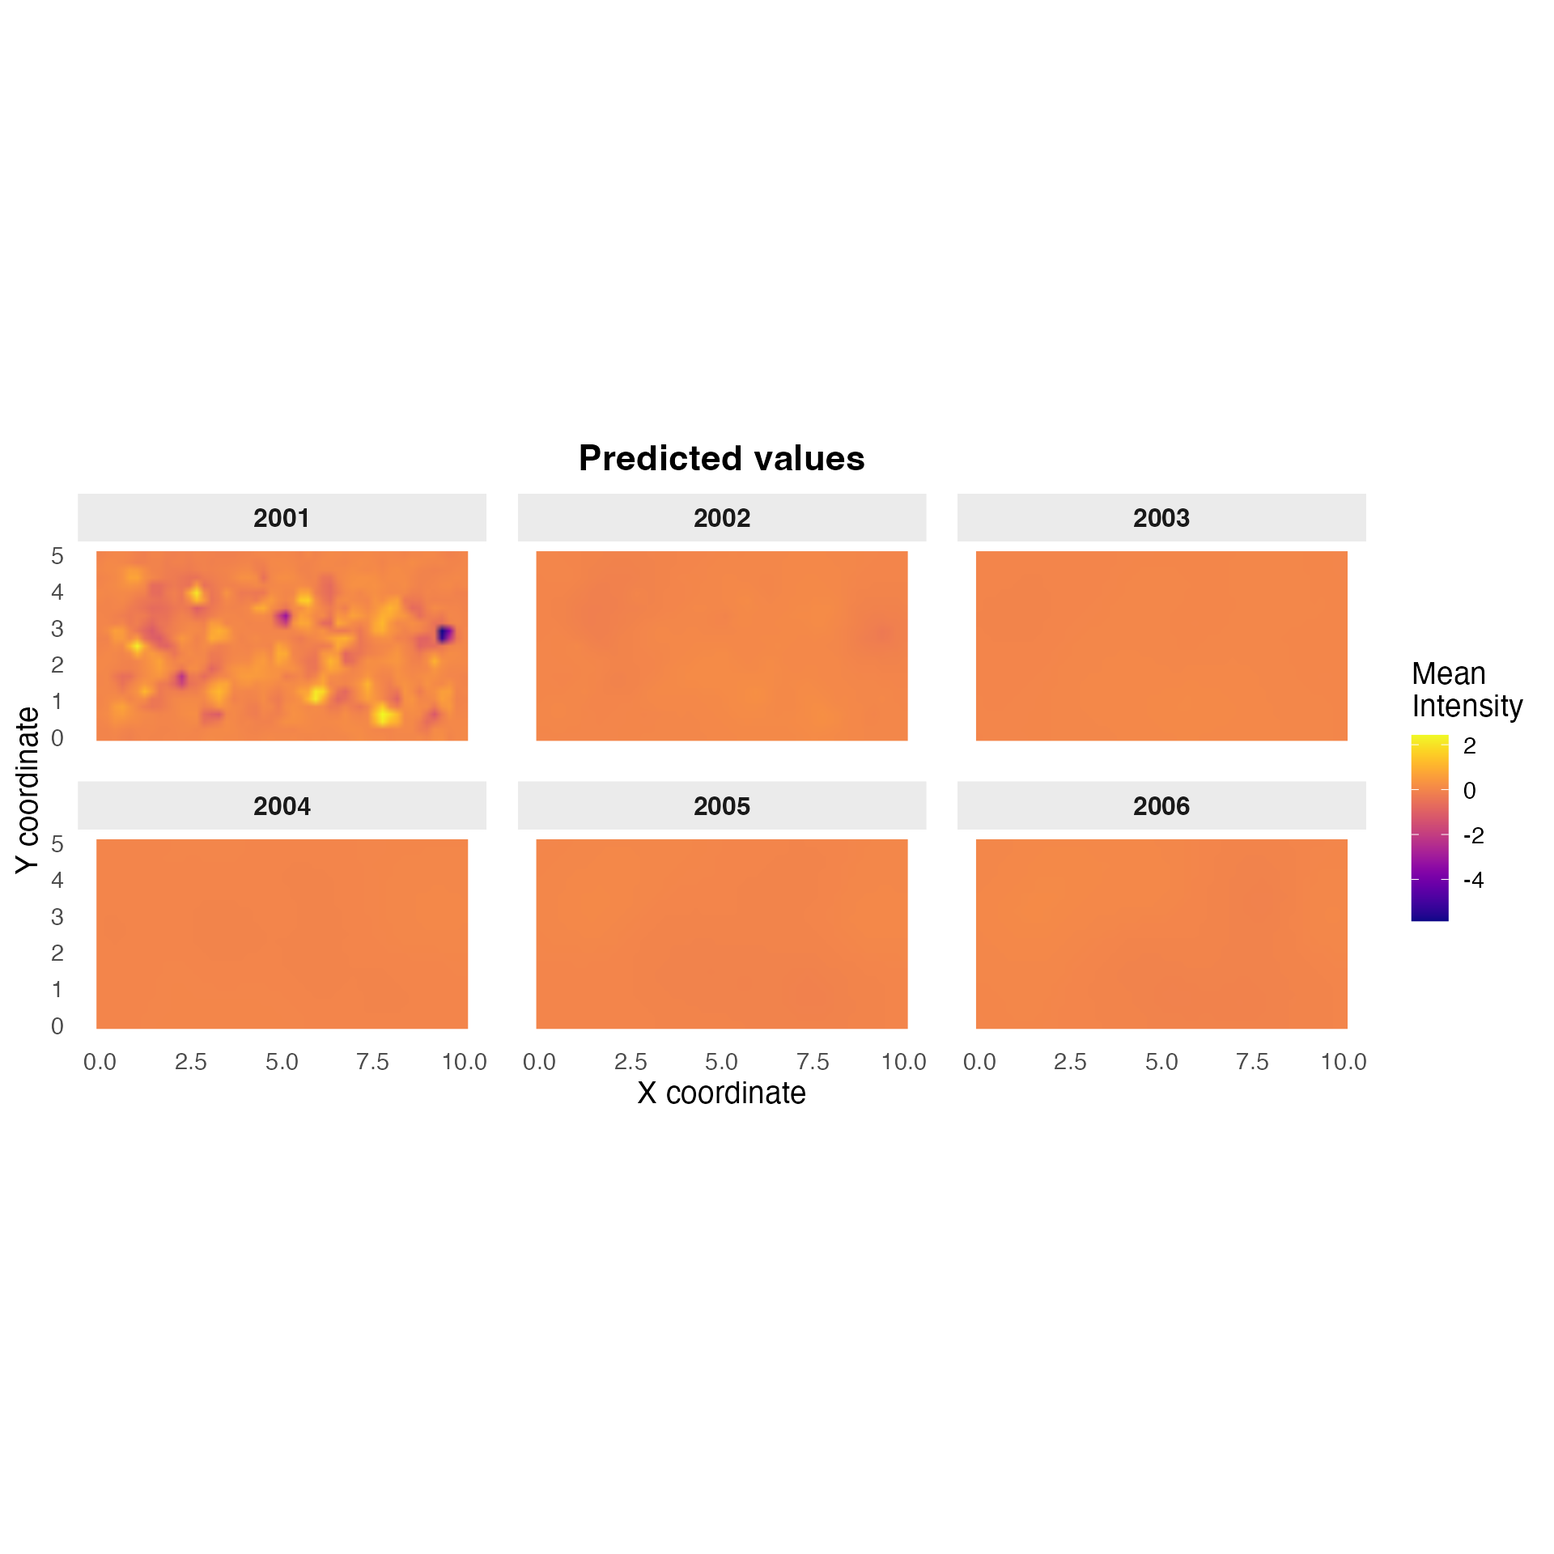
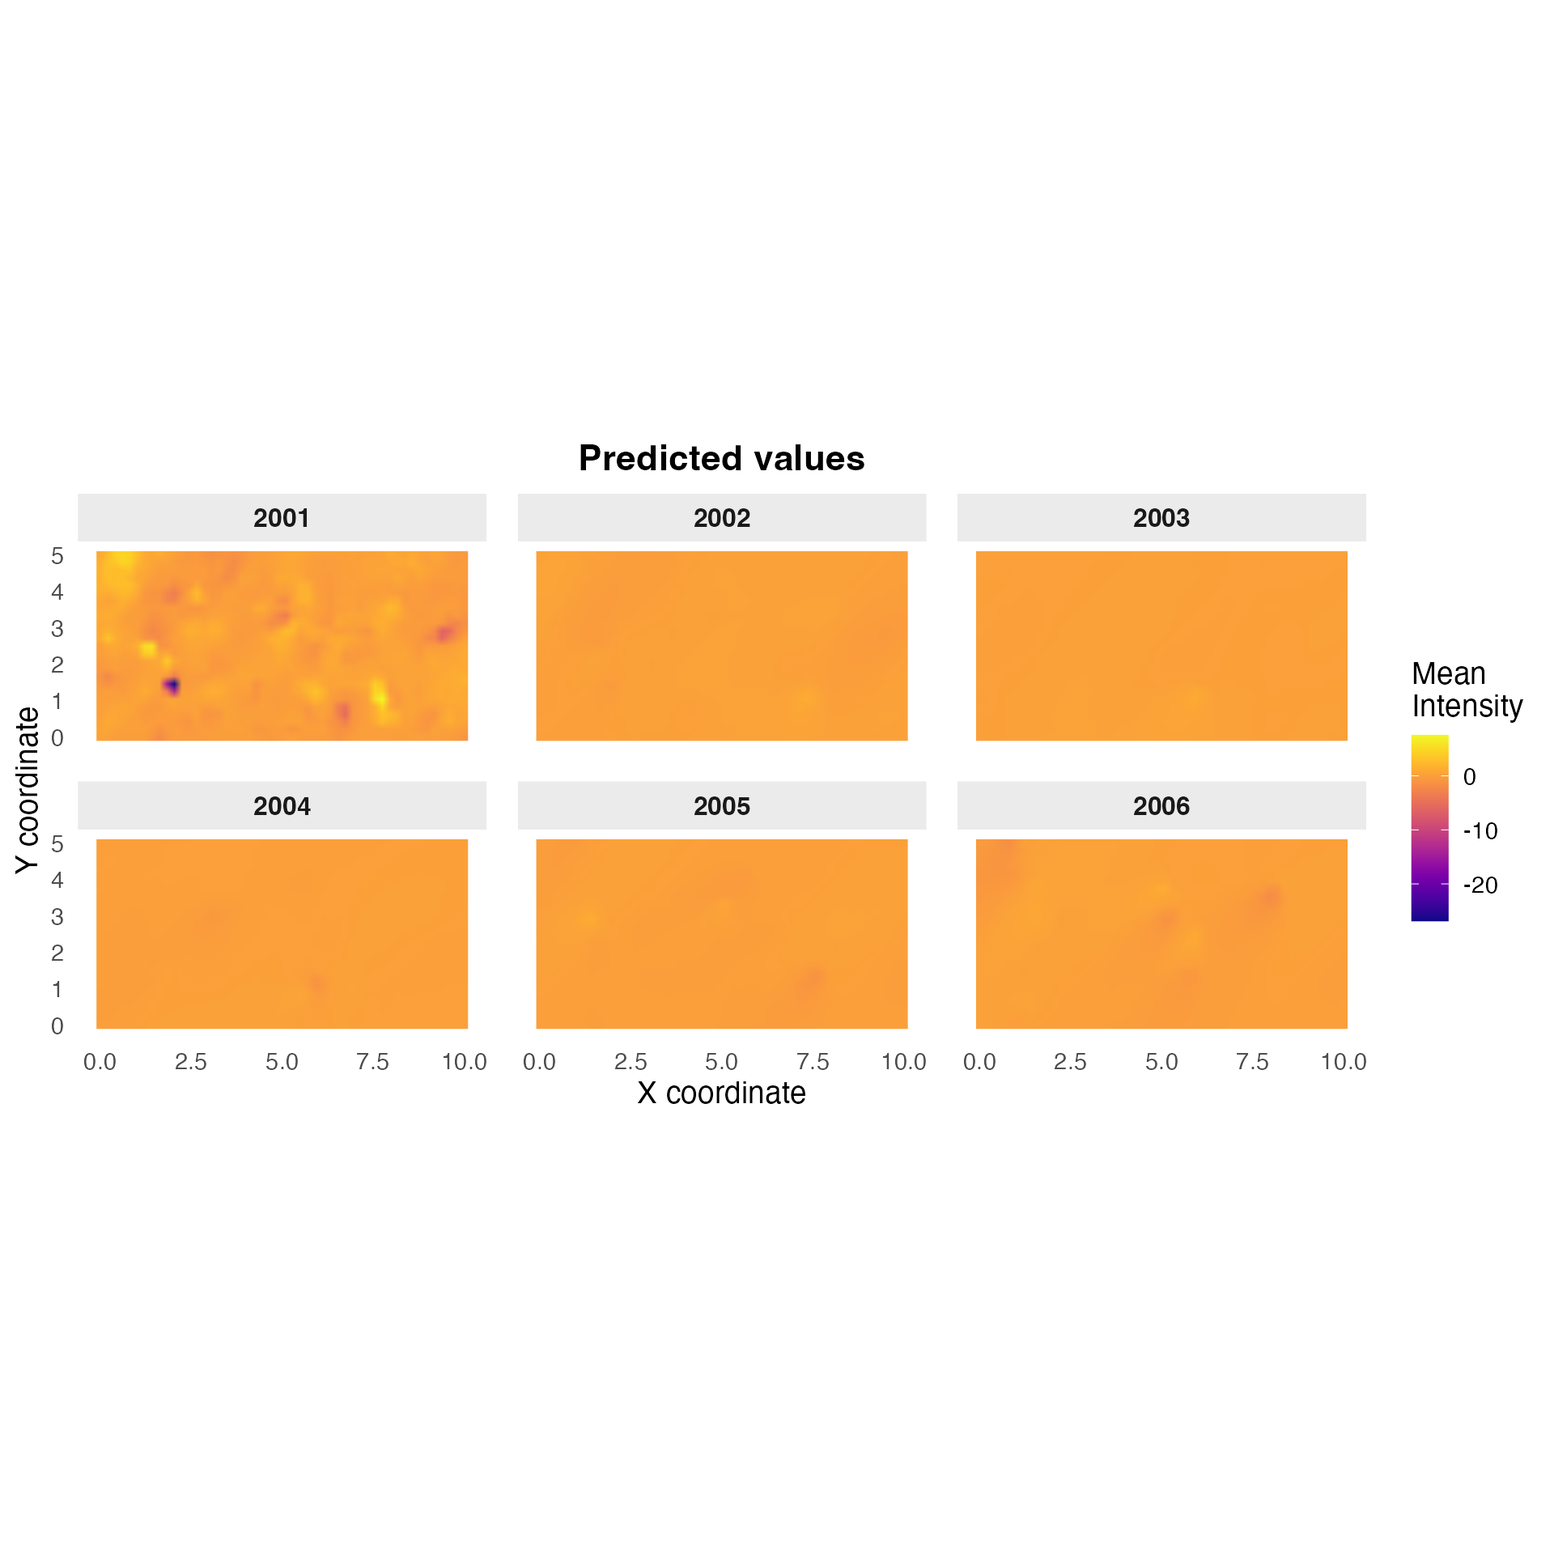
📚 Update documentation [skip ci]

diff --git a/articles/non-separable-model.html b/articles/non-separable-model.html
@@ -473,6 +473,11 @@ have correlation around 0.13 under the Matérn model with
 <p>Now we create the model object and simulate observations:</p>
 <div class="sourceCode" id="cb5"><pre class="downlit sourceCode r">
 <code class="sourceCode R"><span><span class="co"># Specify the true generative model</span></span>
+<span><span class="va">true_mu</span> <span class="op">&lt;-</span> <span class="fl">1</span></span>
+<span><span class="va">true_sigma</span> <span class="op">&lt;-</span> <span class="fl">4</span></span>
+<span><span class="va">true_nu</span> <span class="op">&lt;-</span> <span class="fl">20</span></span>
+<span><span class="va">true_noise</span> <span class="op">&lt;-</span> <span class="fu"><a href="../reference/ngme_noise.html">noise_nig</a></span><span class="op">(</span>mu <span class="op">=</span> <span class="va">true_mu</span>, sigma <span class="op">=</span> <span class="va">true_sigma</span>, nu <span class="op">=</span> <span class="va">true_nu</span><span class="op">)</span></span>
+<span></span>
 <span><span class="va">true_model</span> <span class="op">&lt;-</span> <span class="fu"><a href="../reference/f.html">f</a></span><span class="op">(</span></span>
 <span>  map <span class="op">=</span> <span class="fu"><a href="https://rdrr.io/r/base/list.html" class="external-link">list</a></span><span class="op">(</span></span>
 <span>    <span class="va">obs_data</span><span class="op">$</span><span class="va">time_index</span>,</span>
@@ -488,7 +493,7 @@ have correlation around 0.13 under the Matérn model with
 <span>    cc <span class="op">=</span> <span class="va">true_cc</span>,</span>
 <span>    lambda <span class="op">=</span> <span class="va">true_lambda</span>,</span>
 <span>  <span class="op">)</span>,</span>
-<span>  noise <span class="op">=</span> <span class="fu"><a href="../reference/ngme_noise.html">noise_nig</a></span><span class="op">(</span>mu <span class="op">=</span> <span class="fl">1</span>, sigma <span class="op">=</span> <span class="fl">4</span>, nu <span class="op">=</span> <span class="fl">20</span><span class="op">)</span> <span class="co"># Non-Gaussian innovations</span></span>
+<span>  noise <span class="op">=</span> <span class="va">true_noise</span></span>
 <span><span class="op">)</span></span>
 <span></span>
 <span><span class="co"># Generate latent field realizations</span></span>
@@ -572,18 +577,31 @@ high-dimensional parameter spaces.</p>
 <span>    model <span class="op">=</span> <span class="fu"><a href="../reference/spacetime.html">spacetime</a></span><span class="op">(</span></span>
 <span>      mesh <span class="op">=</span> <span class="fu"><a href="https://rdrr.io/r/base/list.html" class="external-link">list</a></span><span class="op">(</span><span class="va">mesh_temporal</span>, <span class="va">mesh_spatial</span><span class="op">)</span></span>
 <span>    <span class="op">)</span>,</span>
+<span>    noise <span class="op">=</span> <span class="fu"><a href="../reference/ngme_noise.html">noise_nig</a></span><span class="op">(</span><span class="op">)</span>,</span>
 <span>    name <span class="op">=</span> <span class="st">"advection_field"</span>,</span>
 <span>  <span class="op">)</span>,</span>
 <span>  data <span class="op">=</span> <span class="va">obs_data</span>,</span>
 <span>  family <span class="op">=</span> <span class="st">"normal"</span>, <span class="co"># Observation distribution</span></span>
 <span>  control_opt <span class="op">=</span> <span class="fu"><a href="../reference/control_opt.html">control_opt</a></span><span class="op">(</span></span>
-<span>    iterations <span class="op">=</span> <span class="fl">500</span>,</span>
+<span>    iterations <span class="op">=</span> <span class="fl">1000</span>,</span>
 <span>    optimizer <span class="op">=</span> <span class="fu"><a href="../reference/adamW.html">adamW</a></span><span class="op">(</span><span class="op">)</span>,</span>
-<span>    n_parallel_chain <span class="op">=</span> <span class="fl">2</span>,</span>
+<span>    n_parallel_chain <span class="op">=</span> <span class="fl">1</span>,</span>
 <span>    verbose <span class="op">=</span> <span class="cn">FALSE</span>,</span>
 <span>    seed <span class="op">=</span> <span class="fl">2024</span></span>
 <span>  <span class="op">)</span></span>
-<span><span class="op">)</span></span></code></pre></div>
+<span><span class="op">)</span></span>
+<span><span class="va">model_nonsep</span></span>
+<span><span class="fu"><a href="../reference/traceplot.html">traceplot</a></span><span class="op">(</span><span class="va">model_nonsep</span><span class="op">)</span></span></code></pre></div>
+<p><img src="non-separable-model_files/figure-html/fit-nonseparable-1.png" width="100%"></p>
+<div class="sourceCode" id="cb7"><pre class="downlit sourceCode r">
+<code class="sourceCode R"><span><span class="fu"><a href="../reference/traceplot.html">traceplot</a></span><span class="op">(</span><span class="va">model_nonsep</span>, <span class="st">"advection_field"</span>, hline <span class="op">=</span> <span class="fu"><a href="https://rdrr.io/r/base/c.html" class="external-link">c</a></span><span class="op">(</span></span>
+<span>  <span class="va">true_cc</span>,</span>
+<span>  <span class="va">true_kappa</span>,</span>
+<span>  <span class="va">true_theta_gamma_x</span>,</span>
+<span>  <span class="va">true_theta_gamma_y</span>,</span>
+<span>  <span class="va">true_mu</span>, <span class="va">true_sigma</span>, <span class="va">true_nu</span></span>
+<span><span class="op">)</span><span class="op">)</span></span></code></pre></div>
+<p><img src="non-separable-model_files/figure-html/fit-nonseparable-2.png" width="100%"></p>
 <p><strong>Model specification details:</strong></p>
 <ul>
 <li>
@@ -602,7 +620,7 @@ finite element meshes for both dimensions</li>
 <code>n_parallel_chain = 2</code>: Runs optimization from two random
 starting points to avoid local optima</li>
 </ul>
-<div class="sourceCode" id="cb7"><pre class="downlit sourceCode r">
+<div class="sourceCode" id="cb8"><pre class="downlit sourceCode r">
 <code class="sourceCode R"><span><span class="fu"><a href="https://rdrr.io/r/base/summary.html" class="external-link">summary</a></span><span class="op">(</span><span class="va">model_nonsep</span><span class="op">)</span></span>
 <span><span class="co">#&gt; *** Ngme object ***</span></span>
 <span><span class="co">#&gt; </span></span>
@@ -613,18 +631,20 @@ starting points to avoid local optima</li>
 <span><span class="co">#&gt; $advection_field</span></span>
 <span><span class="co">#&gt;   Model type: Space-time (Implicit Euler)</span></span>
 <span><span class="co">#&gt;       alpha = 2 (fixed) </span></span>
-<span><span class="co">#&gt;       theta_gamma_x = -0.43 </span></span>
-<span><span class="co">#&gt;       theta_gamma_y = -0.43 </span></span>
-<span><span class="co">#&gt;       cc = 1 </span></span>
-<span><span class="co">#&gt;       kappa = 0.15 </span></span>
-<span><span class="co">#&gt;   Noise type: NORMAL</span></span>
+<span><span class="co">#&gt;       theta_gamma_x = 2.1 </span></span>
+<span><span class="co">#&gt;       theta_gamma_y = 2.3 </span></span>
+<span><span class="co">#&gt;       cc = 0.84 </span></span>
+<span><span class="co">#&gt;       kappa = 0.26 </span></span>
+<span><span class="co">#&gt;   Noise type: NIG</span></span>
 <span><span class="co">#&gt;   Noise parameters: </span></span>
-<span><span class="co">#&gt;       sigma = 0.249</span></span>
+<span><span class="co">#&gt;       mu = -0.162</span></span>
+<span><span class="co">#&gt;       sigma = 1.47</span></span>
+<span><span class="co">#&gt;       nu = 0.0311</span></span>
 <span><span class="co">#&gt; </span></span>
 <span><span class="co">#&gt; Measurement noise: </span></span>
 <span><span class="co">#&gt;   Noise type: NORMAL</span></span>
 <span><span class="co">#&gt;   Noise parameters: </span></span>
-<span><span class="co">#&gt;       sigma = 0.498</span></span></code></pre></div>
+<span><span class="co">#&gt;       sigma = 0.404</span></span></code></pre></div>
 <p>The summary output shows the estimated parameters along with standard
 errors (if computed). Key quantities include the likelihood value,
 convergence status, and parameter estimates with uncertainty
@@ -635,7 +655,7 @@ quantification.</p>
 </h3>
 <p>Let’s extract and interpret the estimated parameters, comparing them
 to the true values used in simulation:</p>
-<div class="sourceCode" id="cb8"><pre class="downlit sourceCode r">
+<div class="sourceCode" id="cb9"><pre class="downlit sourceCode r">
 <code class="sourceCode R"><span><span class="co"># Extract estimated parameters from the latent field model</span></span>
 <span><span class="va">params</span> <span class="op">&lt;-</span> <span class="va">model_nonsep</span><span class="op">$</span><span class="va">replicates</span><span class="op">[[</span><span class="fl">1</span><span class="op">]</span><span class="op">]</span><span class="op">$</span><span class="va">models</span><span class="op">[[</span><span class="fl">1</span><span class="op">]</span><span class="op">]</span><span class="op">$</span><span class="va">theta_K</span></span>
 <span></span>
@@ -655,22 +675,22 @@ to the true values used in simulation:</p>
 <tbody>
 <tr class="odd">
 <td align="left">κ (kappa)</td>
-<td align="right">0.0233</td>
+<td align="right">-0.1772</td>
 <td align="right">1.000</td>
 </tr>
 <tr class="even">
 <td align="left">c (time scale)</td>
-<td align="right">-1.9492</td>
+<td align="right">-1.3671</td>
 <td align="right">15.0</td>
 </tr>
 <tr class="odd">
 <td align="left">γ_x (velocity x)</td>
-<td align="right">-0.4226</td>
+<td align="right">2.1725</td>
 <td align="right">2.0</td>
 </tr>
 <tr class="even">
 <td align="left">γ_y (velocity y)</td>
-<td align="right">-0.4404</td>
+<td align="right">2.2583</td>
 <td align="right">0.0</td>
 </tr>
 </tbody>
@@ -711,7 +731,7 @@ evolution of advection-diffusion processes.</p>
 </h3>
 <p>We construct a regular grid of spatial locations and select multiple
 time points for visualization:</p>
-<div class="sourceCode" id="cb9"><pre class="downlit sourceCode r">
+<div class="sourceCode" id="cb10"><pre class="downlit sourceCode r">
 <code class="sourceCode R"><span><span class="co"># Define fine spatial grid for smooth visualization</span></span>
 <span><span class="va">x_pred</span> <span class="op">&lt;-</span> <span class="fu"><a href="https://rdrr.io/r/base/seq.html" class="external-link">seq</a></span><span class="op">(</span><span class="fl">0</span>, <span class="fl">10</span>, length.out <span class="op">=</span> <span class="fl">50</span><span class="op">)</span></span>
 <span><span class="va">y_pred</span> <span class="op">&lt;-</span> <span class="fu"><a href="https://rdrr.io/r/base/seq.html" class="external-link">seq</a></span><span class="op">(</span><span class="fl">0</span>, <span class="fl">5</span>, length.out <span class="op">=</span> <span class="fl">25</span><span class="op">)</span></span>
@@ -768,7 +788,7 @@ observation locations.</p>
 points. The <code><a href="https://rdrr.io/r/stats/predict.html" class="external-link">predict()</a></code> function performs kriging-style
 optimal spatio-temporal interpolation based on the estimated SPDE
 parameters:</p>
-<div class="sourceCode" id="cb10"><pre class="downlit sourceCode r">
+<div class="sourceCode" id="cb11"><pre class="downlit sourceCode r">
 <code class="sourceCode R"><span><span class="co"># Compute predictions (posterior mean and standard deviation)</span></span>
 <span><span class="va">pred_nonsep</span> <span class="op">&lt;-</span> <span class="fu"><a href="https://rdrr.io/r/stats/predict.html" class="external-link">predict</a></span><span class="op">(</span></span>
 <span>  <span class="va">model_nonsep</span>,</span>
@@ -794,19 +814,19 @@ domain:</p>
 <tbody>
 <tr class="odd">
 <td align="left">Mean (minimum)</td>
-<td align="right">-5.85</td>
+<td align="right">-26.87</td>
 </tr>
 <tr class="even">
 <td align="left">Mean (maximum)</td>
-<td align="right">2.43</td>
+<td align="right">7.53</td>
 </tr>
 <tr class="odd">
 <td align="left">Std. dev. (minimum)</td>
-<td align="right">0.05</td>
+<td align="right">0.06</td>
 </tr>
 <tr class="even">
 <td align="left">Std. dev. (maximum)</td>
-<td align="right">2.29</td>
+<td align="right">27.85</td>
 </tr>
 </tbody>
 </table>
@@ -821,7 +841,7 @@ times with sparse observations.</p>
 <p>We create a multi-panel visualization showing the field evolution
 across all 6 years, with arrows indicating the estimated transport
 direction and magnitude:</p>
-<div class="sourceCode" id="cb11"><pre class="downlit sourceCode r">
+<div class="sourceCode" id="cb12"><pre class="downlit sourceCode r">
 <code class="sourceCode R"><span><span class="kw"><a href="https://rdrr.io/r/base/library.html" class="external-link">library</a></span><span class="op">(</span><span class="va"><a href="https://sjmgarnier.github.io/viridis/" class="external-link">viridis</a></span><span class="op">)</span></span>
 <span></span>
 <span><span class="fu">ggplot</span><span class="op">(</span><span class="va">pred_data</span>, <span class="fu">aes</span><span class="op">(</span>x <span class="op">=</span> <span class="va">x</span>, y <span class="op">=</span> <span class="va">y</span>, fill <span class="op">=</span> <span class="va">mean</span><span class="op">)</span><span class="op">)</span> <span class="op">+</span></span>
@@ -866,7 +886,7 @@ direction and magnitude:</p>
 ability to forecast beyond the observed time period. We demonstrate this
 by predicting the field in year 2007, using only data from
 2001-2006.</p>
-<div class="sourceCode" id="cb12"><pre class="downlit sourceCode r">
+<div class="sourceCode" id="cb13"><pre class="downlit sourceCode r">
 <code class="sourceCode R"><span><span class="co"># Define forecast time point (one year ahead)</span></span>
 <span><span class="va">year_forecast</span> <span class="op">&lt;-</span> <span class="fl">2007</span></span>
 <span><span class="va">time_forecast</span> <span class="op">&lt;-</span> <span class="va">year_forecast</span> <span class="op">-</span> <span class="fl">2000</span></span>
@@ -902,22 +922,22 @@ by predicting the field in year 2007, using only data from
 <tbody>
 <tr class="odd">
 <td align="left">Mean (minimum)</td>
-<td align="right">-0.07</td>
+<td align="right">-0.08</td>
 </tr>
 <tr class="even">
 <td align="left">Mean (maximum)</td>
-<td align="right">0.07</td>
+<td align="right">0.15</td>
 </tr>
 <tr class="odd">
 <td align="left">Average uncertainty (SD)</td>
-<td align="right">0.08</td>
+<td align="right">0.20</td>
 </tr>
 </tbody>
 </table>
 <p>The forecast extends the temporal dynamics one step beyond the last
 observation, using the estimated advection velocity to project spatial
 patterns forward in time.</p>
-<div class="sourceCode" id="cb13"><pre class="downlit sourceCode r">
+<div class="sourceCode" id="cb14"><pre class="downlit sourceCode r">
 <code class="sourceCode R"><span><span class="co"># Forecast mean</span></span>
 <span><span class="va">p1</span> <span class="op">&lt;-</span> <span class="fu">ggplot</span><span class="op">(</span><span class="va">forecast_data</span>, <span class="fu">aes</span><span class="op">(</span>x <span class="op">=</span> <span class="va">x</span>, y <span class="op">=</span> <span class="va">y</span>, fill <span class="op">=</span> <span class="va">mean</span><span class="op">)</span><span class="op">)</span> <span class="op">+</span></span>
 <span>  <span class="fu">geom_raster</span><span class="op">(</span>interpolate <span class="op">=</span> <span class="cn">TRUE</span><span class="op">)</span> <span class="op">+</span></span>

diff --git a/index.html b/index.html
@@ -80,22 +80,21 @@
 <img src="logo.png" class="logo" alt=""><h1 id="the-ngme2-package-">The <code>ngme2</code> Package <a class="anchor" aria-label="anchor" href="#the-ngme2-package-"></a>
 </h1>
 </div>
-<p><code>ngme2</code> (<a href="https://davidbolin.github.io/ngme2/" class="uri">https://davidbolin.github.io/ngme2/</a>) is a unified, efficient, and flexible framework for fitting latent <strong>non-Gaussian</strong> models in R. It extends the SPDE-based Gaussian modeling toolkit to handle skewness, heavy tails, and non-smooth behavior while keeping familiar workflows for estimation, prediction, and model assessment.</p>
 <div class="section level2">
-<h2 id="what-you-get">What you get<a class="anchor" aria-label="anchor" href="#what-you-get"></a>
+<h2 id="description">Description<a class="anchor" aria-label="anchor" href="#description"></a>
+</h2>
+<p><code>ngme2</code> (<a href="https://davidbolin.github.io/ngme2/" class="uri">https://davidbolin.github.io/ngme2/</a>) is a unified, efficient, and flexible framework for fitting latent <strong>non-Gaussian</strong> models in R. It extends the SPDE-based Gaussian modeling toolkit to handle skewness, heavy tails, and non-smooth behavior while keeping familiar workflows for estimation, prediction, and model assessment.</p>
+</div>
+<div class="section level2">
+<h2 id="features">Features<a class="anchor" aria-label="anchor" href="#features"></a>
 </h2>
 <ul>
 <li>Temporal processes: AR(1), Ornstein–Uhlenbeck, random walks, and ARMA models.</li>
 <li>Spatial processes: Matérn fields (including graph-based meshes) and separable/non-separable space–time variants.</li>
 <li>Non-Gaussian driven noise: NIG, generalized asymmetric Laplace, skew-(t); non-Gaussian measurement noise is also supported.</li>
-<li>Joint and custom structures: bivariate type-G fields, longitudinal random-effects models, and user-defined operators via <code>generic</code> / <code>generic_ns</code>.</li>
+<li>Joint and custom structures: bivariate type-G fields, longitudinal random-effects models, and user-defined operators via <code>generic</code> / <code>generic_ns</code>, flexible combinations of different models and driven noise.</li>
 <li>Practical tools: kriging-style prediction, cross-validation helpers, and diagnostics for convergence/fit quality.</li>
 </ul>
-</div>
-<div class="section level2">
-<h2 id="model-framework-in-a-sentence">Model framework in a sentence<a class="anchor" aria-label="anchor" href="#model-framework-in-a-sentence"></a>
-</h2>
-<p>Data (Y) are linked to a latent process (W) through an observation matrix (A) and fixed effects (X), while both the process and measurement errors are modeled as normal mean–variance mixtures with generalized inverse Gaussian mixing. An operator (K) encodes spatial/temporal structure, letting the same template describe everything from simple random effects to rich spatio-temporal fields.</p>
 </div>
 <div class="section level2">
 <h2 id="quick-start">Quick start<a class="anchor" aria-label="anchor" href="#quick-start"></a>

diff --git a/news/index.html b/news/index.html
@@ -54,6 +54,7 @@
 <h2 class="pkg-version" data-toc-text="0.8.2" id="ngme2-082-2025-12-02">ngme2 0.8.2 (2025-12-02)<a class="anchor" aria-label="anchor" href="#ngme2-082-2025-12-02"></a></h2>
 <ul><li>Add support for different type of ldlt solvers</li>
 <li>Use solver_type and solver_backend in <code>control_opt</code> to specify the solver</li>
+<li>Give print when hit nu lower bound</li>
 </ul></div>
     <div class="section level2">
 <h2 class="pkg-version" data-toc-text="0.8.1" id="ngme2-081-2025-12-01">ngme2 0.8.1 (2025-12-01)<a class="anchor" aria-label="anchor" href="#ngme2-081-2025-12-01"></a></h2>
